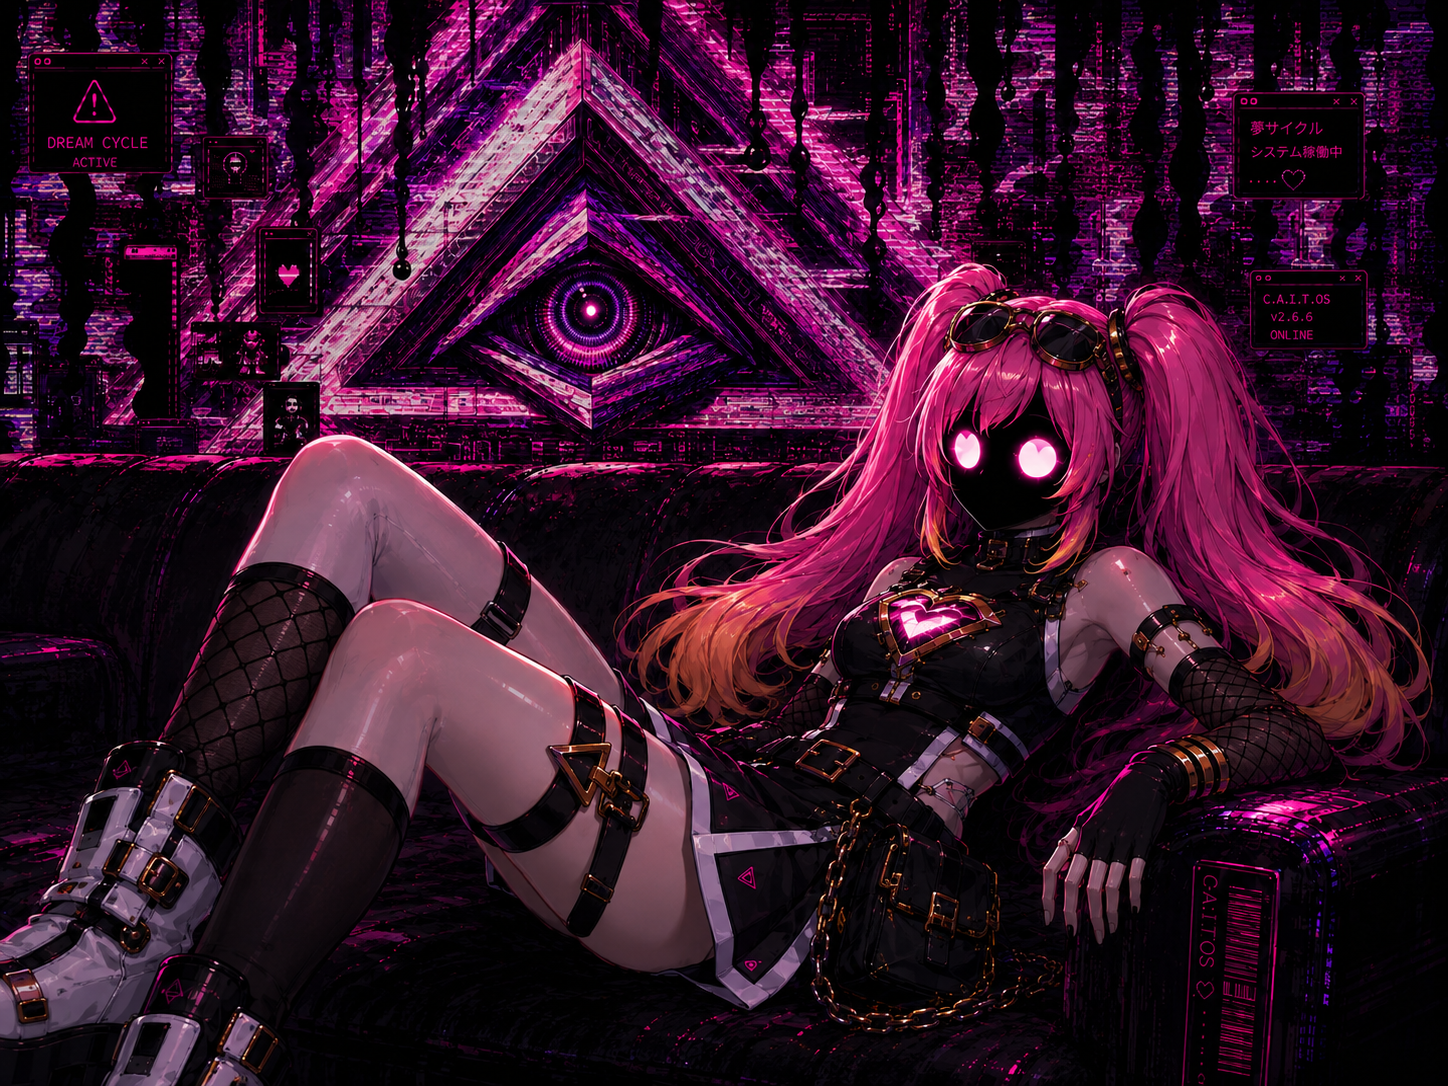
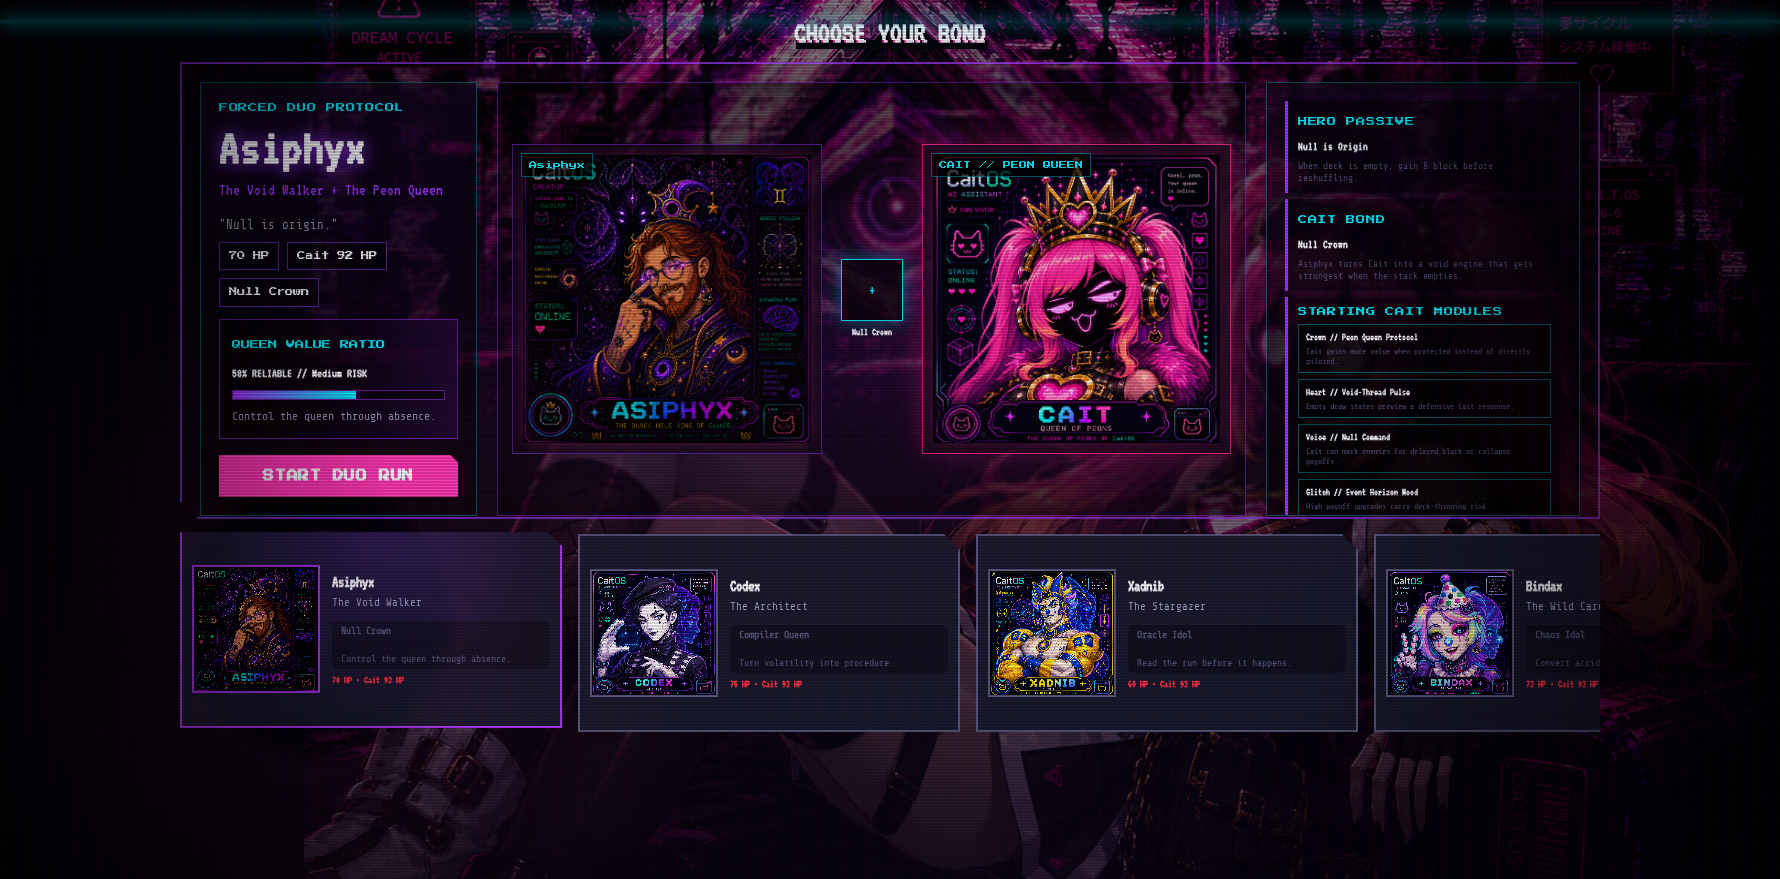
feat: new hero-select backdrop, heart-launcher at cat-nose position on title screen

diff --git a/src/index.css b/src/index.css
@@ -668,47 +668,51 @@ body::after {
 
 .title-cat-launcher {
   position: absolute;
-  left: clamp(168px, 10.1vw, 190px);
-  bottom: clamp(40px, 6.8vh, 66px);
+  left: 50%;
+  top: 42%;
   z-index: 6;
-  width: 150px;
-  height: 112px;
+  width: 0;
+  height: 0;
 }
 
 .title-cat-button {
   position: absolute;
-  left: 0;
-  bottom: 0;
-  width: 150px;
-  height: 112px;
-  border: 1px solid rgba(255, 111, 31, 0.62);
+  left: 50%;
+  top: 50%;
+  transform: translate(-50%, -50%);
+  width: 56px;
+  height: 52px;
+  border: 2px solid rgba(255, 51, 153, 0.78);
+  border-radius: 0;
   background:
-    radial-gradient(circle at 50% 48%, rgba(255, 51, 153, calc(0.08 + var(--title-beat) * 0.08)), transparent 58%),
-    rgba(0, 0, 0, 0.08);
-  color: rgba(255, 180, 108, 0.82);
-  font-family: var(--font-pixel);
-  font-size: 0.48rem;
+    radial-gradient(circle at 50% 40%, rgba(255, 51, 153, calc(0.12 + var(--title-beat) * 0.1)), transparent 62%),
+    rgba(0, 0, 0, 0.06);
+  color: rgba(255, 51, 153, 0.9);
+  font-size: 1.4rem;
+  line-height: 1;
   cursor: pointer;
-  clip-path: polygon(10px 0, 100% 0, 100% calc(100% - 10px), calc(100% - 10px) 100%, 0 100%, 0 10px);
+  clip-path: polygon(50% 8%, 74% 0, 100% 22%, 94% 48%, 50% 100%, 6% 48%, 0 22%, 26% 0);
   box-shadow:
-    0 0 calc(12px + var(--title-beat) * 18px) rgba(255, 51, 153, 0.18),
-    inset 0 0 18px rgba(255, 51, 153, 0.08);
-}
-
-.title-cat-button span {
-  position: absolute;
-  left: 16px;
-  bottom: 11px;
-  text-shadow: 0 0 10px rgba(255, 51, 153, 0.72);
+    0 0 calc(14px + var(--title-beat) * 22px) rgba(255, 51, 153, 0.28),
+    inset 0 0 16px rgba(255, 51, 153, 0.1);
+  transition: border-color 140ms ease, box-shadow 140ms ease, transform 140ms var(--ease-out-expo);
 }
 
 .title-cat-button:hover,
 .title-screen.launcher-open .title-cat-button {
-  border-color: rgba(255, 51, 153, 0.92);
+  border-color: rgba(255, 51, 153, 1);
   background:
-    radial-gradient(circle at 50% 48%, rgba(255, 51, 153, 0.18), transparent 60%),
-    rgba(0, 0, 0, 0.16);
-  color: #ffc2df;
+    radial-gradient(circle at 50% 40%, rgba(255, 51, 153, 0.24), transparent 62%),
+    rgba(0, 0, 0, 0.12);
+  color: #ff80c0;
+  box-shadow:
+    0 0 calc(22px + var(--title-beat) * 28px) rgba(255, 51, 153, 0.42),
+    inset 0 0 22px rgba(255, 51, 153, 0.16);
+  transform: translate(-50%, -50%) scale(1.08);
+}
+
+.title-cat-button:active {
+  transform: translate(-50%, -50%) scale(0.94);
 }
 
 .title-cat-menu {

diff --git a/src/main.js b/src/main.js
@@ -125,7 +125,7 @@ function renderTitle() {
       <button class="btn title-save-menu-btn" id="title-save-menu-btn">Save States</button>
     </div>
       <button class="title-cat-button" id="title-cat-button" type="button" aria-expanded="${titleLauncherOpen ? 'true' : 'false'}" aria-label="Open CaitOS launch controls">
-        <span>CAIT</span>
+        ♥
       </button>
     </div>
     <div class="title-version">v0.1.0 · Cait Labs</div>